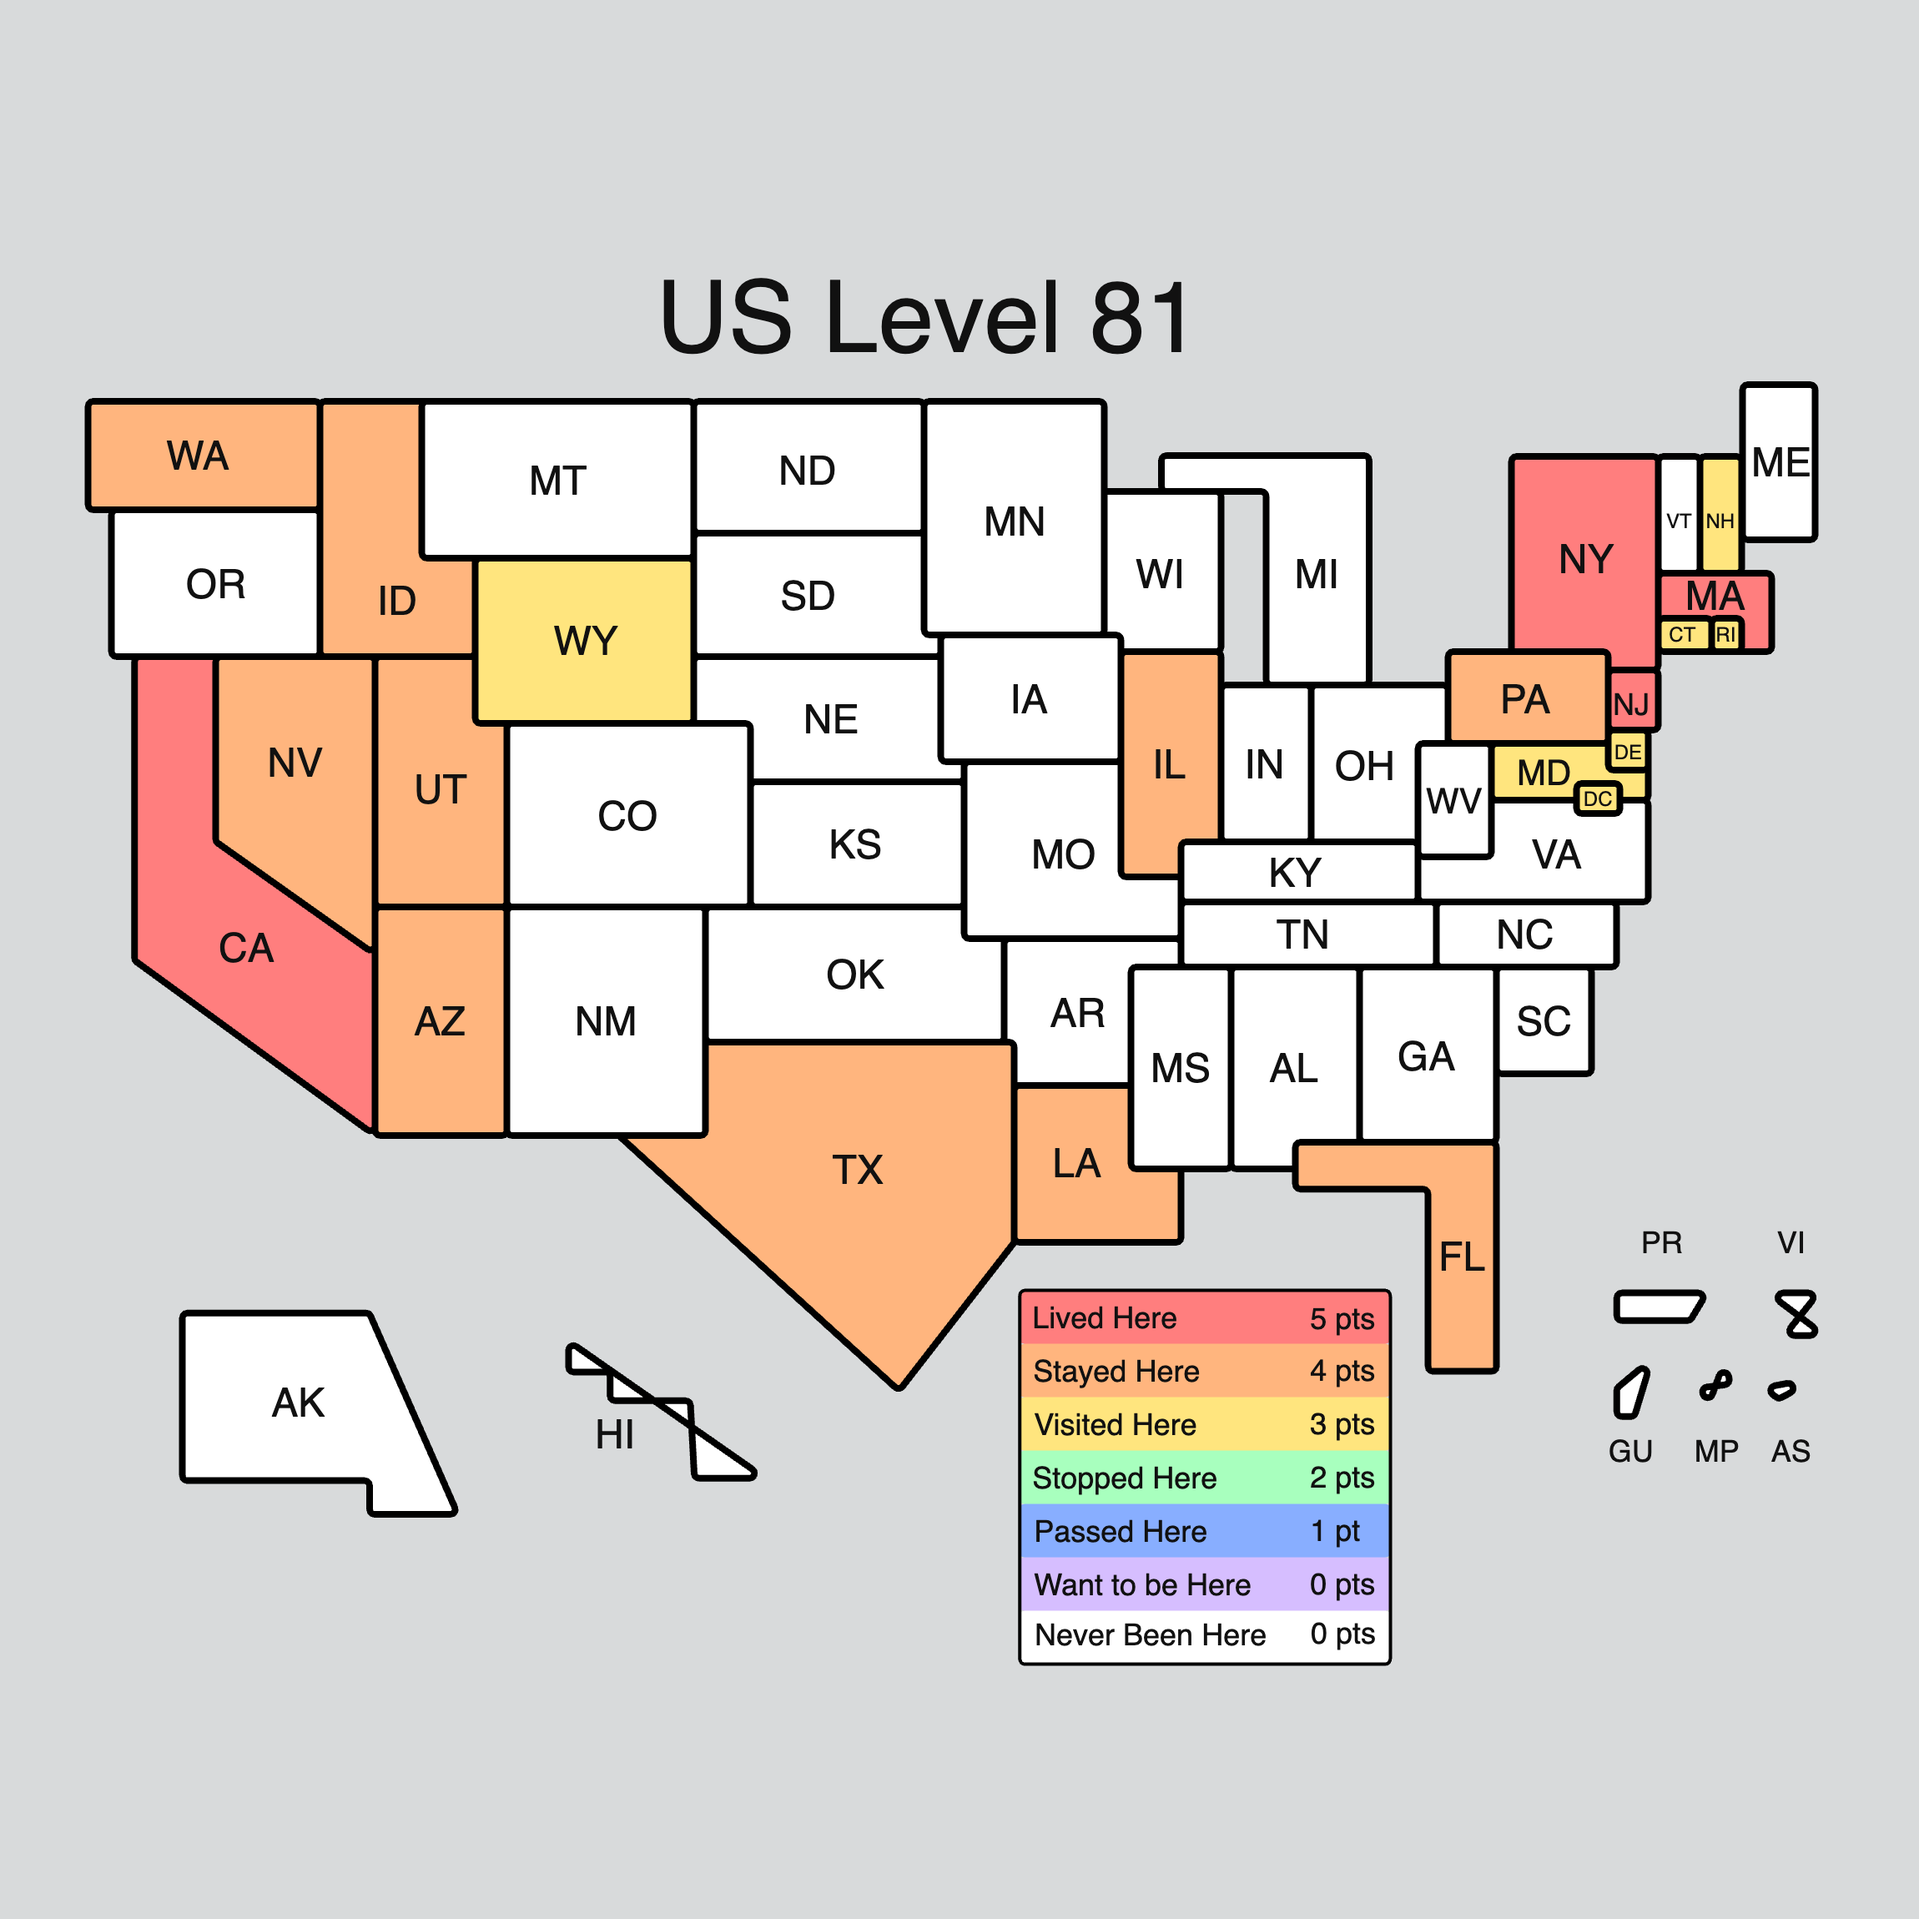
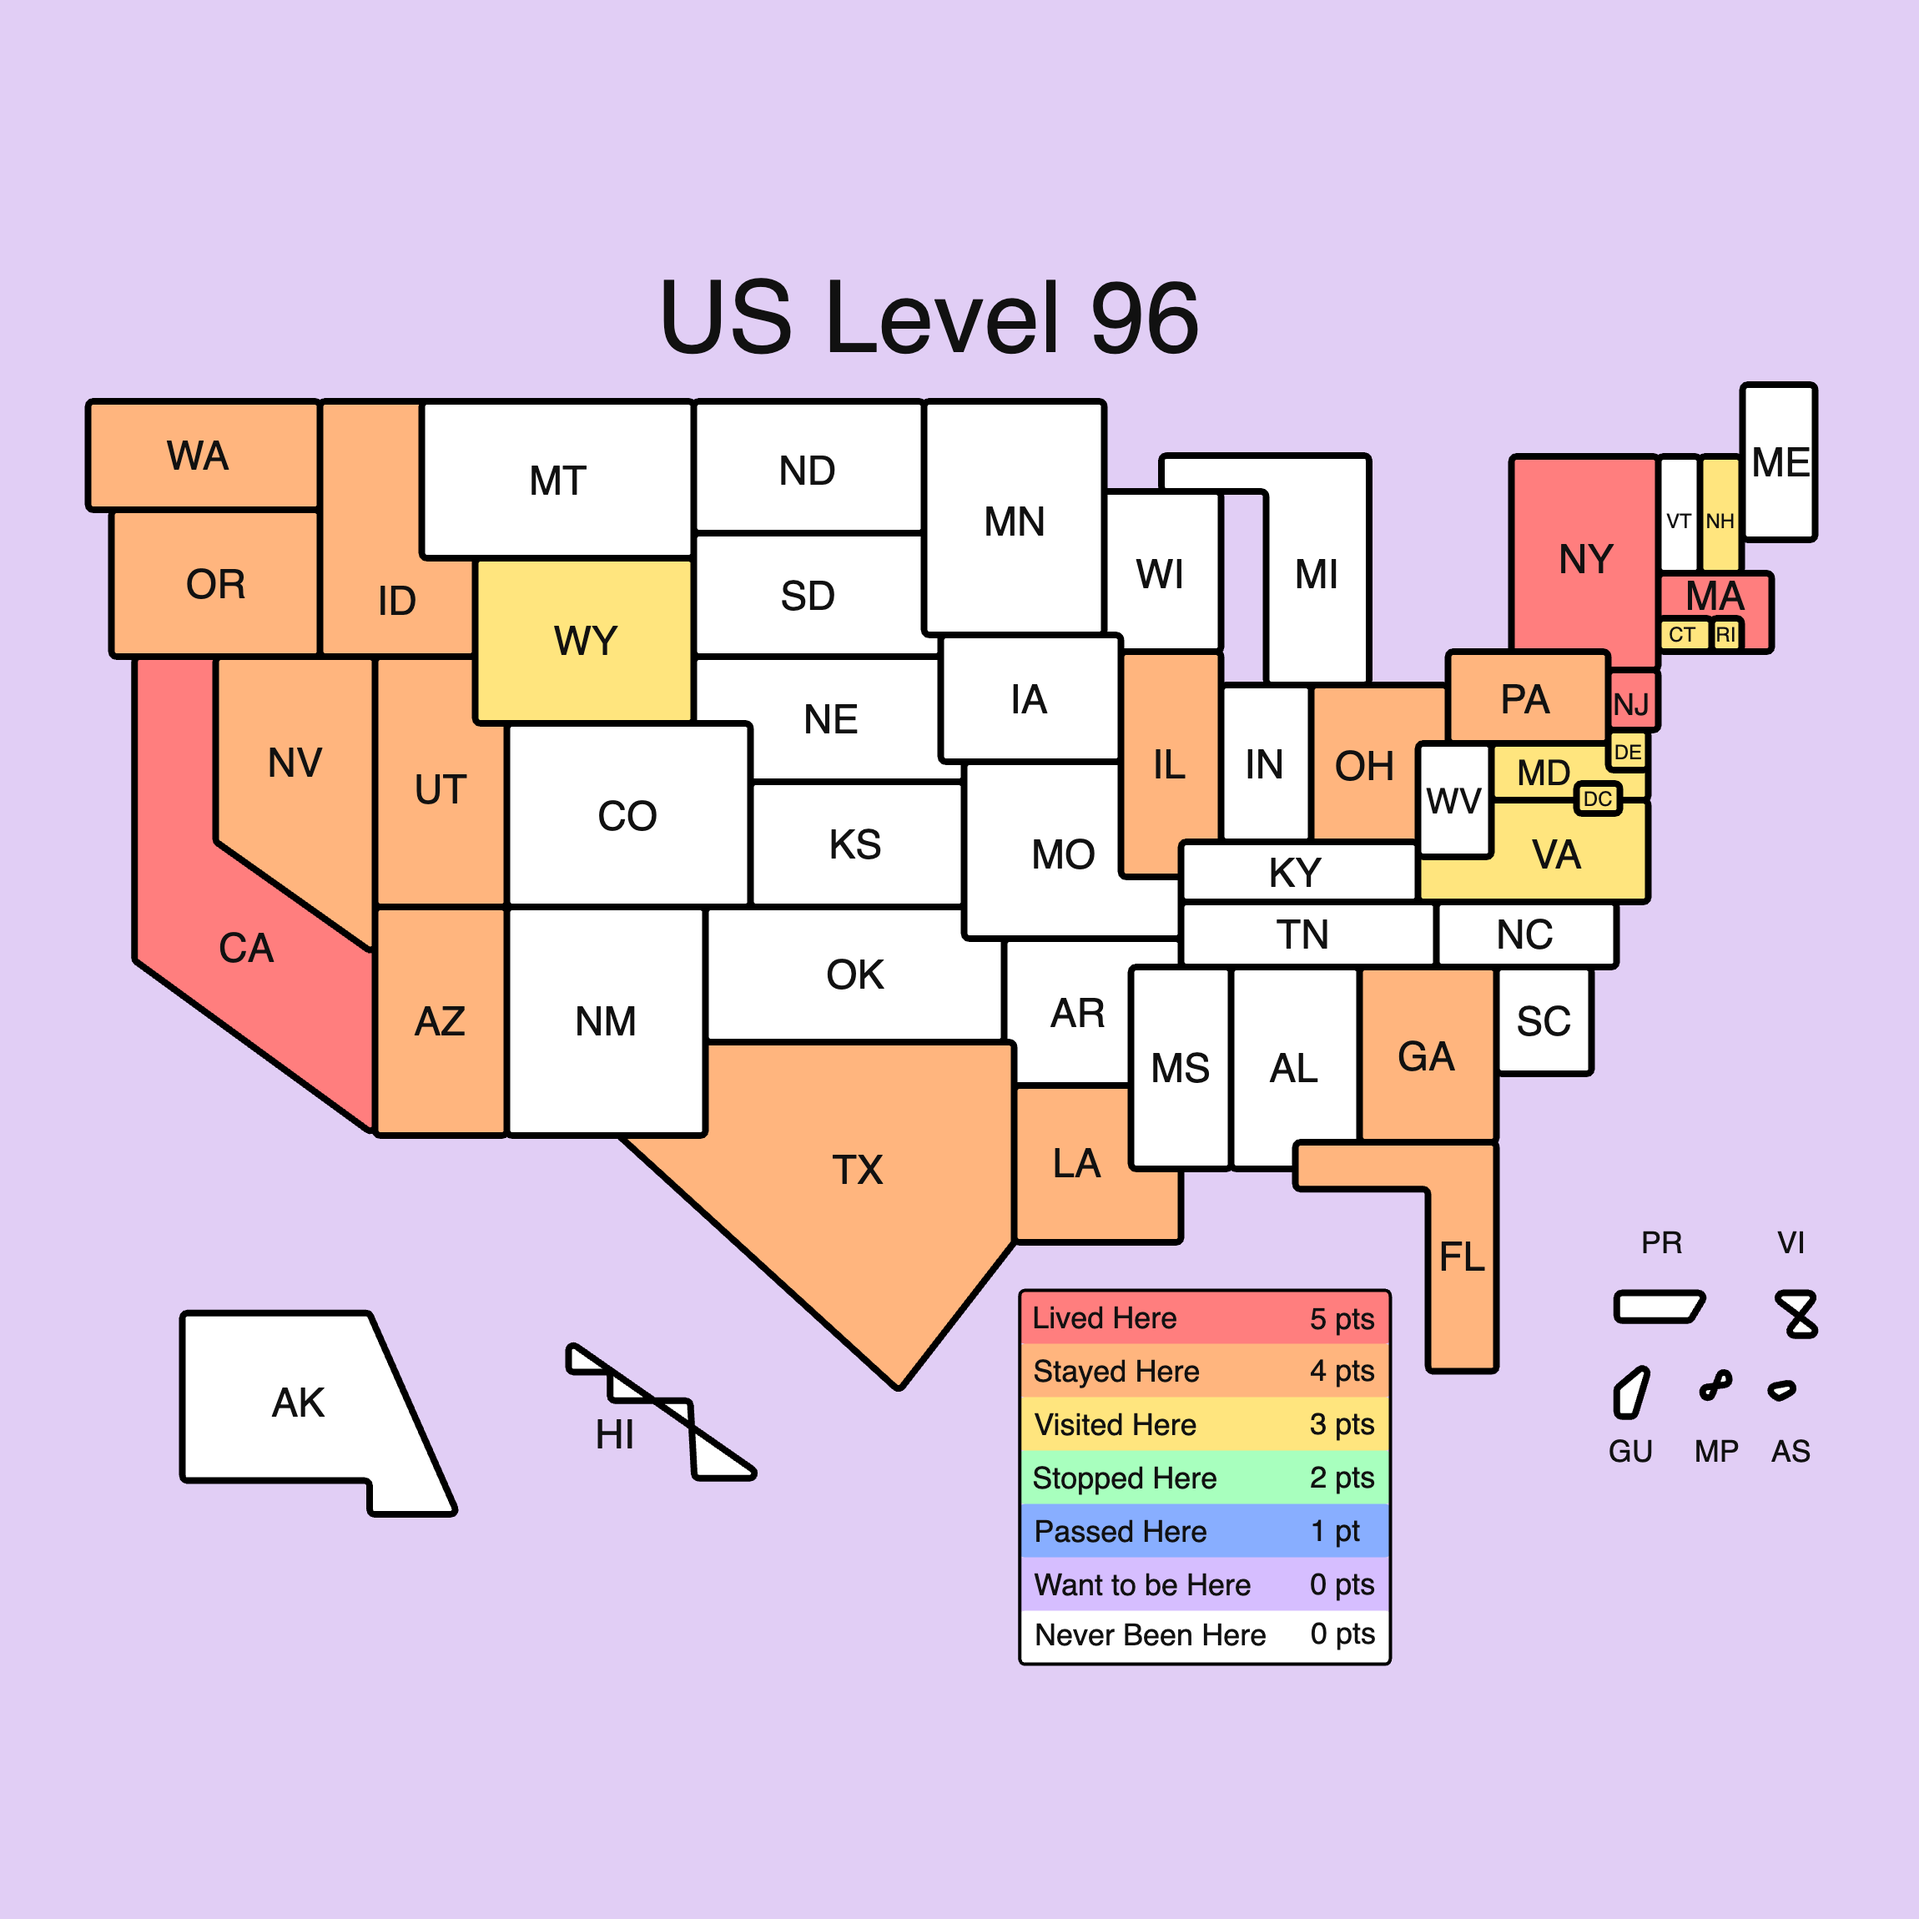
add Brisbane location and dates to BI 2026 news

diff --git a/data/news.js b/data/news.js
@@ -10,7 +10,7 @@ const NEWS = [
   {
     date: "Oct 2026",
     type: "paper",
-    html: `Our paper <strong>"Brain-Aligned Multimodal LLMs for Social and Emotional Understanding of Cartoon Movies"</strong> has been accepted to the <a href="https://wi-consortium.org/conferences/bi2026/workshops%20special%20sessions.html" target="_blank">GenAI for Neuroscience workshop</a> at <strong>Brain Informatics 2026</strong>.`,
+    html: `Our paper <strong>"Brain-Aligned Multimodal LLMs for Social and Emotional Understanding of Cartoon Movies"</strong> has been accepted to the <a href="https://wi-consortium.org/conferences/bi2026/workshops%20special%20sessions.html" target="_blank">GenAI for Neuroscience workshop</a> at <strong>Brain Informatics 2026</strong>, which will be held in Brisbane, Australia, December 3-6, 2026.`,
   },
   {
     date: "July 2026",
